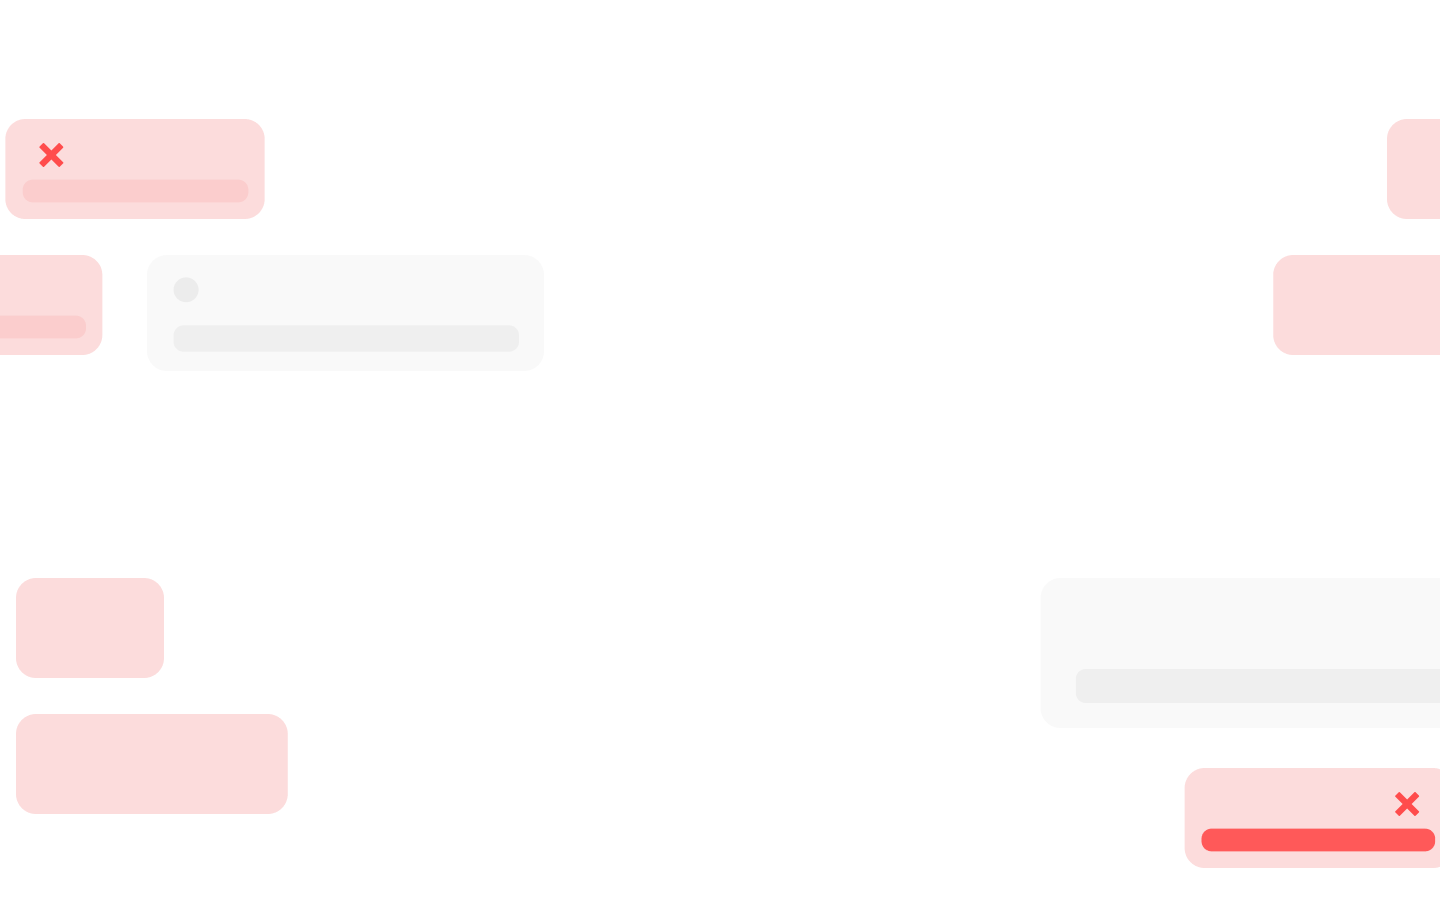
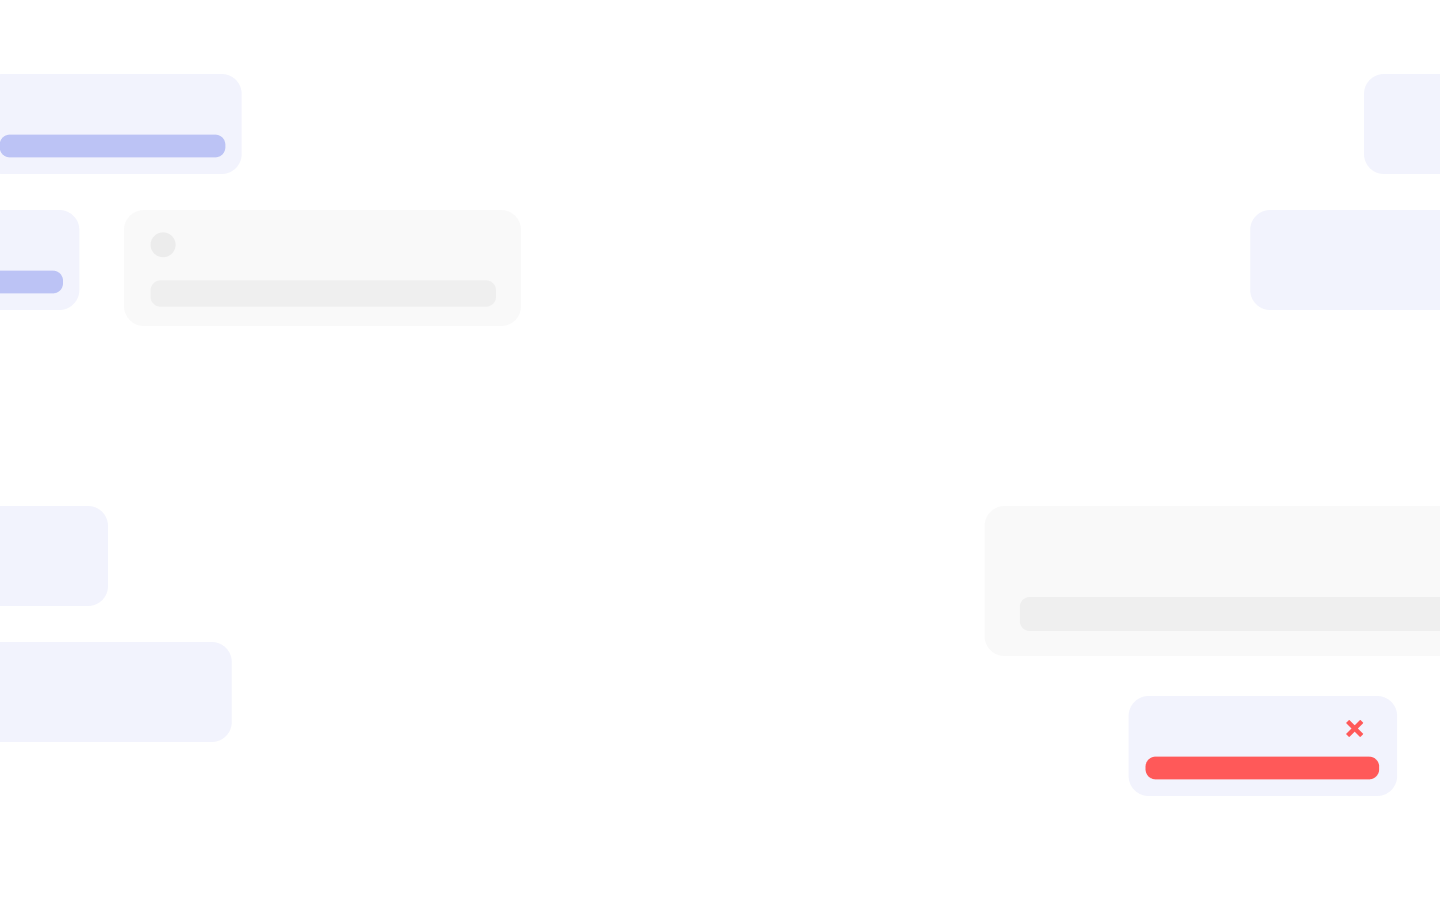
feat: change background image

diff --git a/src/components/LandingPage/Hero.jsx b/src/components/LandingPage/Hero.jsx
@@ -10,7 +10,7 @@ const Hero = () => {
       <div className="flex flex-col items-center justify-center w-full gap-5 px-4 sm:px-6 lg:px-8 p-48">
         <h1 className="text-5xl sm:text-6xl font-bold text-center">HAJAR</h1>
         <h1 className="text-4xl sm:text-6xl font-bold text-center leading-tight">
-          "Hapus <span className="text-red-600"> Judi </span>Anti Ribet"
+          Hapus <span className="text-red-600"> Judi </span>Anti Ribet
         </h1>
         <p className="text-gray-700 text-center text-sm sm:text-base lg:text-lg max-w-md sm:max-w-lg lg:max-w-xl px-4">
           Jangan Biarkan Komentar{" "}

diff --git a/src/components/LandingPage/Hajar.jsx b/src/components/LandingPage/Hajar.jsx
@@ -17,7 +17,7 @@ const Hajar = () => {
         <div>
           <Button
             onPress={onOpen}
-            className="w-48 sm:w-56 lg:w-60 font-semibold bg-yellow-500 py-6 text-white sm:text-base mt-10"
+            className="w-48 sm:w-56 lg:w-60 font-semibold bg-blue-600 py-6 text-white sm:text-base mt-10"
           >
             HAJAR Sekarang
           </Button>
